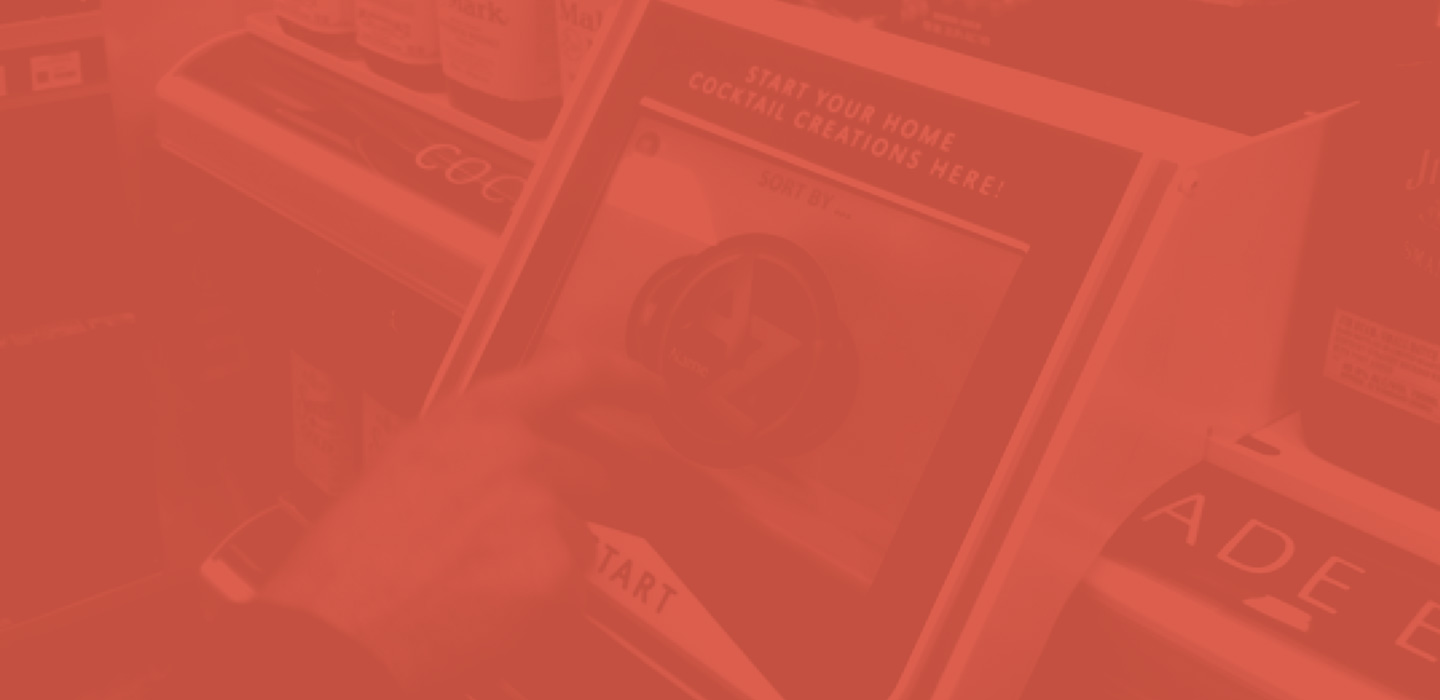
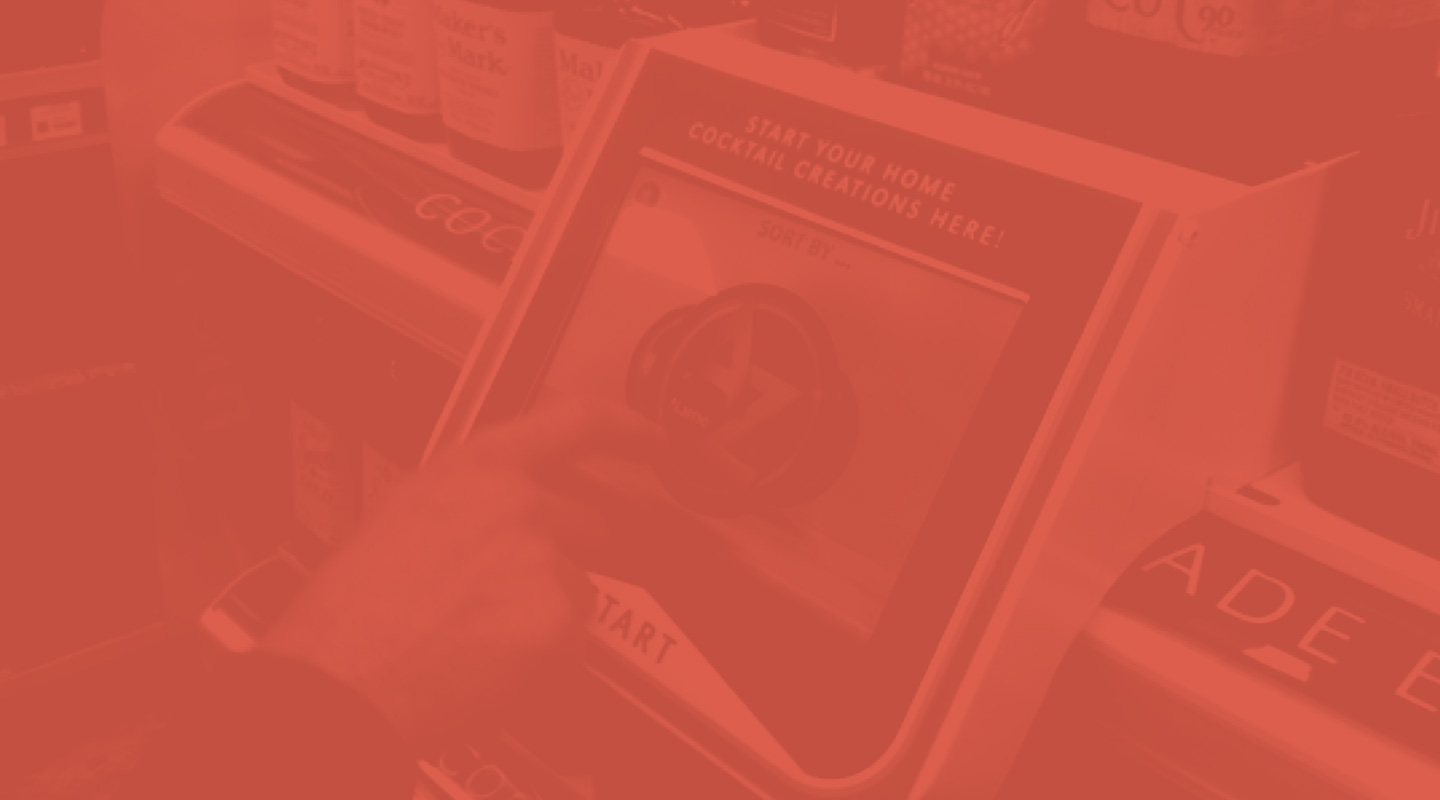
updating case study cca and adding dwb arrow

diff --git a/website/css/enabled_style.css b/website/css/enabled_style.css
@@ -274,7 +274,7 @@ div#header {
 }
 div#header.home {
 	height: 800px;
-	background: url(../images/img_header.jpg) no-repeat top left fixed;
+	background: url(../images/img_header.jpg) no-repeat top center fixed;
 	-webkit-background-size: 1440px 800px;
 	-moz-background-size: 1440px 800px;
 	-o-background-size: 1440px 800px;
@@ -609,7 +609,9 @@ div.feature-casestudy {
 div.feature-casestudy-text {
 	font-family: 'Roboto Slab', serif;
 	font-style: normal;
+	min-height: 260px;
 	height: 260px;
+	height: auto;
 	padding: 15px;
 	background-color: #FFF;
 	-moz-box-sizing: border-box;
@@ -1363,8 +1365,8 @@ div.half-right h2, div.half-left h2{
 		height: auto;
 	}
 	div#footer-contactinfo {
-		font-size: 20px;
-		line-height: 1.6em;
+		font-size: 18px;
+		line-height: 1.4em;
 	}
 	.title {
 		font-size: 40px;
@@ -1415,7 +1417,7 @@ div.half-right h2, div.half-left h2{
 		width: 93%;
 	}
 	div.info h4, div.feature-casestudy h4 {
-		font-size: 28px;
+		font-size: 26px;
 		line-height: 1.4em;
 	}
 	div.info-text, div.feature-casestudy-text {
@@ -1441,7 +1443,7 @@ div.half-right h2, div.half-left h2{
 		margin: 0 auto;
 	}
 	div.intro-left h3, div.intro-right h3 {
-		padding: 0;
+		padding: 0 0 10px 0;
 	}
 	div.map, div#gmap_canvas {
 		width: 98%;
@@ -1500,7 +1502,14 @@ div.half-right h2, div.half-left h2{
 		padding: 100px 55px;
 		font-size: 20px;
 	}
-
+	
+	div.project-features{
+		font-size:20px;
+	}
+	
+	div.project-features li {
+	  margin: 0 0 15px 0;
+	}
 	 
 }
 
@@ -1522,9 +1531,10 @@ div.half-right h2, div.half-left h2{
 		font-size: 18px;
 	}
 	div#footer-buttons .btn {
-		margin: 0 auto 10px auto;
-		width: 94%;
+		margin: 0 auto 15px auto;
+		width: 100%;
 		text-align: center;
+		font-size: 22px;
 		padding: 15px 15px 15px 30px;
 		-moz-box-sizing: border-box;
 		-webkit-box-sizing: border-box;
@@ -1564,6 +1574,14 @@ div.half-right h2, div.half-left h2{
 	 div.half-right h2, div.half-left h2{
 		padding: 100px 35px;
 		font-size: 20px;
+	}
+	
+	div.feature-casestudy{
+		line-height: 1.4em;
+	}
+	
+	div.feature-casestudy-text{
+		padding: 20px;
 	}
 	
 	/*.fixed {

diff --git a/website/casestudy-CCA.html b/website/casestudy-CCA.html
@@ -40,7 +40,7 @@
         <div class="intro-left">
           <h4>Case Study</h4>
           <h3>Coca-Cola Amatil<br>
-- Mixxit@Home Kiosk </h3>
+Mixxit@Home Kiosk </h3>
         </div>
         <div class="intro-right">
           <h3>Coca-Cola Amatil (CCA) is one of the largest bottlers of non-alcoholic ready-to-drink beverages in the Asia-Pacific region and one of the world's major Coca Cola bottlers. CCA operates in six countries and has access to 270 million consumers.</h3>
@@ -61,9 +61,9 @@
         <div class="column-left">
           <p>The Mixxit@Home kiosk and App is a Point Of Sales tool for Coca-Cola Amatil to expand their customers’ thoughts of what drinks to make at their next social occasion, with the side effect of expanding customers purchase of Coca-Cola Amatil range of spirits. </p>
           <p>The challenge for Coca-Cola Amatil was many drinkers didn't feel comfortable or knowledgeable enough to mix their own cocktails at home. Shopping the spirits category was already confusing and difficult to navigate, often with minimal visibility in-store. This resulted in shoppers sticking with their tried and tested favourites of beer, wine and base spirits. </p>
-          <p>Coca-Cola Amatil saw an opportunity to educate shoppers and in turn boost sales of both their soft drink and spirits portfolio. </p>
         </div>
         <div class="column-right">
+        <p>Coca-Cola Amatil saw an opportunity to educate shoppers and in turn boost sales of both their soft drink and spirits portfolio. </p>
           <p><strong>The key objectives:</strong></p>
           <ul>
             <li>Develop a shopper driven solution to drive larger basket sizes for key retail partners </li>
@@ -196,6 +196,6 @@
 <script src="js/modernizr.custom.js"></script> 
 <script src="js/classie.js"></script> 
 <script src="js/enabled_scripts.js"></script>
-</div>
+
 </body>
 </html>

diff --git a/website/index.html b/website/index.html
@@ -27,7 +27,7 @@
       </div>
       <div class="read-more">
         <h4>Learn More.</h4>
-        <a href="javascript:jumpScroll()"><span class="circle-down-arrow">&#8964;</span></a> </div>
+        <a href="javascript:jumpScroll()"><span class="circle-down-arrow"><img src="images/arrow_down.svg" width="20" height="20" alt=""/></span></a> </div>
       <div class="overlay overlay-enabled">
         <button type="button" class="overlay-close">Close</button>
         <nav>
